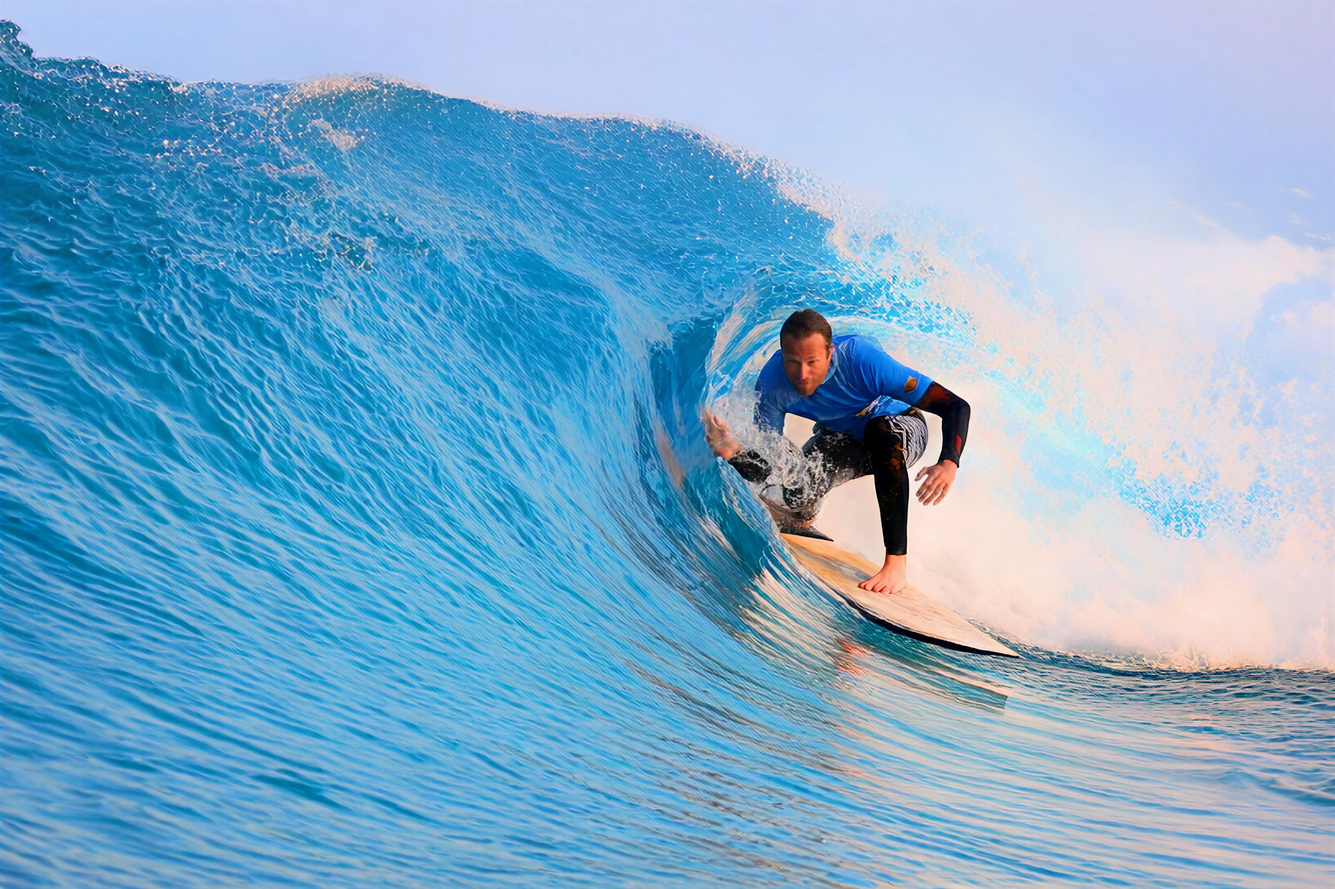
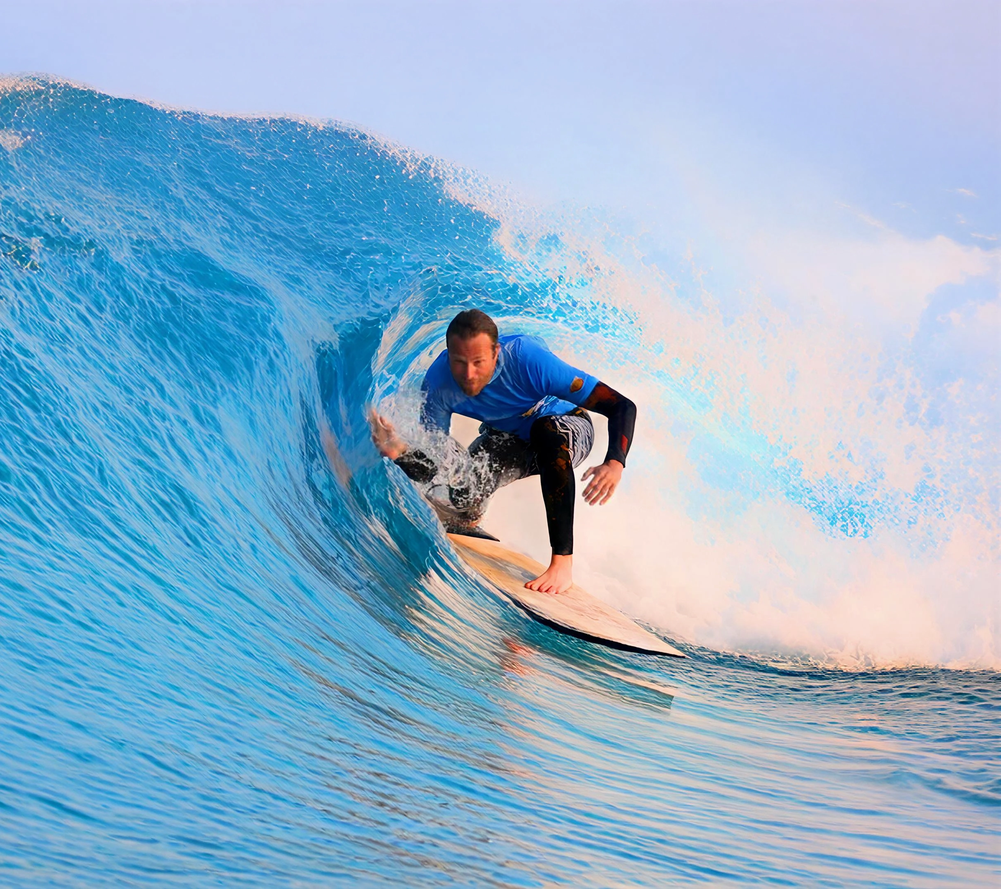
Update MSL visual image and Arie bio text
- Update MSL visual.webp with new version
- Add extra sentence to Arie bio about midlife crisis

🤖 Generated with [Claude Code](https://claude.com/claude-code)

diff --git a/src/data/playerBios.ts b/src/data/playerBios.ts
@@ -18,7 +18,7 @@ export const playerBios: Record<string, PlayerBio> = {
   'Arie': {
     name: 'Arie',
     avatar: '/images/avatars/arie.webp',
-    bio: 'Gedijt beiden goed ter land zee en in de lucht, qua borsthaar kom je ondertussen in de buurt, doch zou je iets meer body, en wat ideale schoonzoon thematiek van je af moeten werpen om qua flair dresscode en stem indruk op z\'n kitt, kittens en kit techniek te kunnen maken.',
+    bio: 'Gedijt beiden goed ter land zee en in de lucht, qua borsthaar kom je ondertussen in de buurt, doch zou je iets meer body, en wat ideale schoonzoon thematiek van je af moeten werpen om qua flair dresscode en stem indruk op z\'n kitt, kittens en kit techniek te kunnen maken. Absoluut geen sprake van een midlifecrisis van speler',
   },
   'Maus': {
     name: 'Maus',
